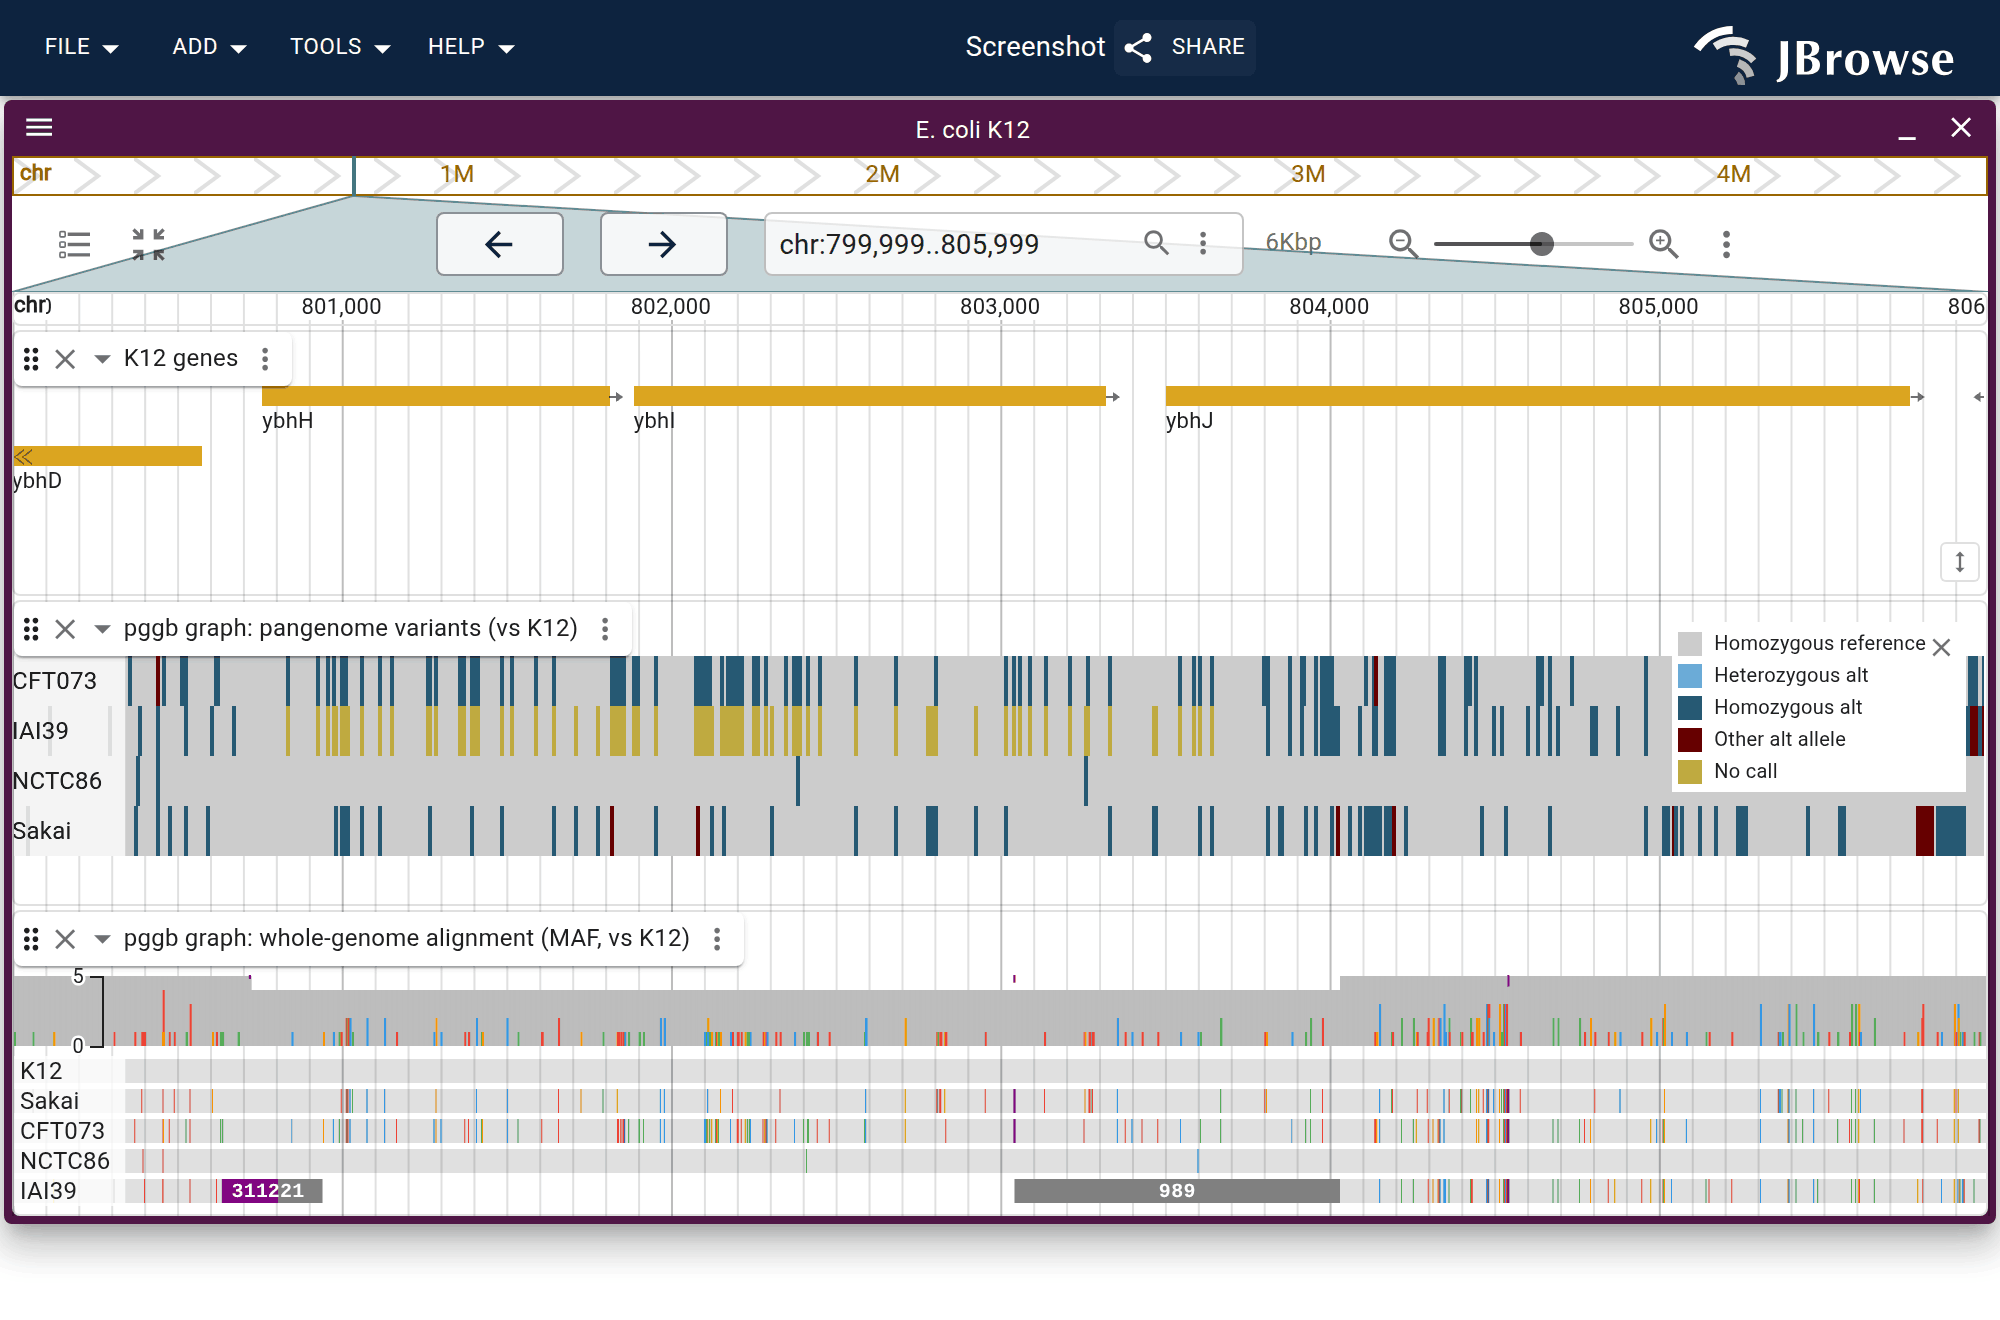
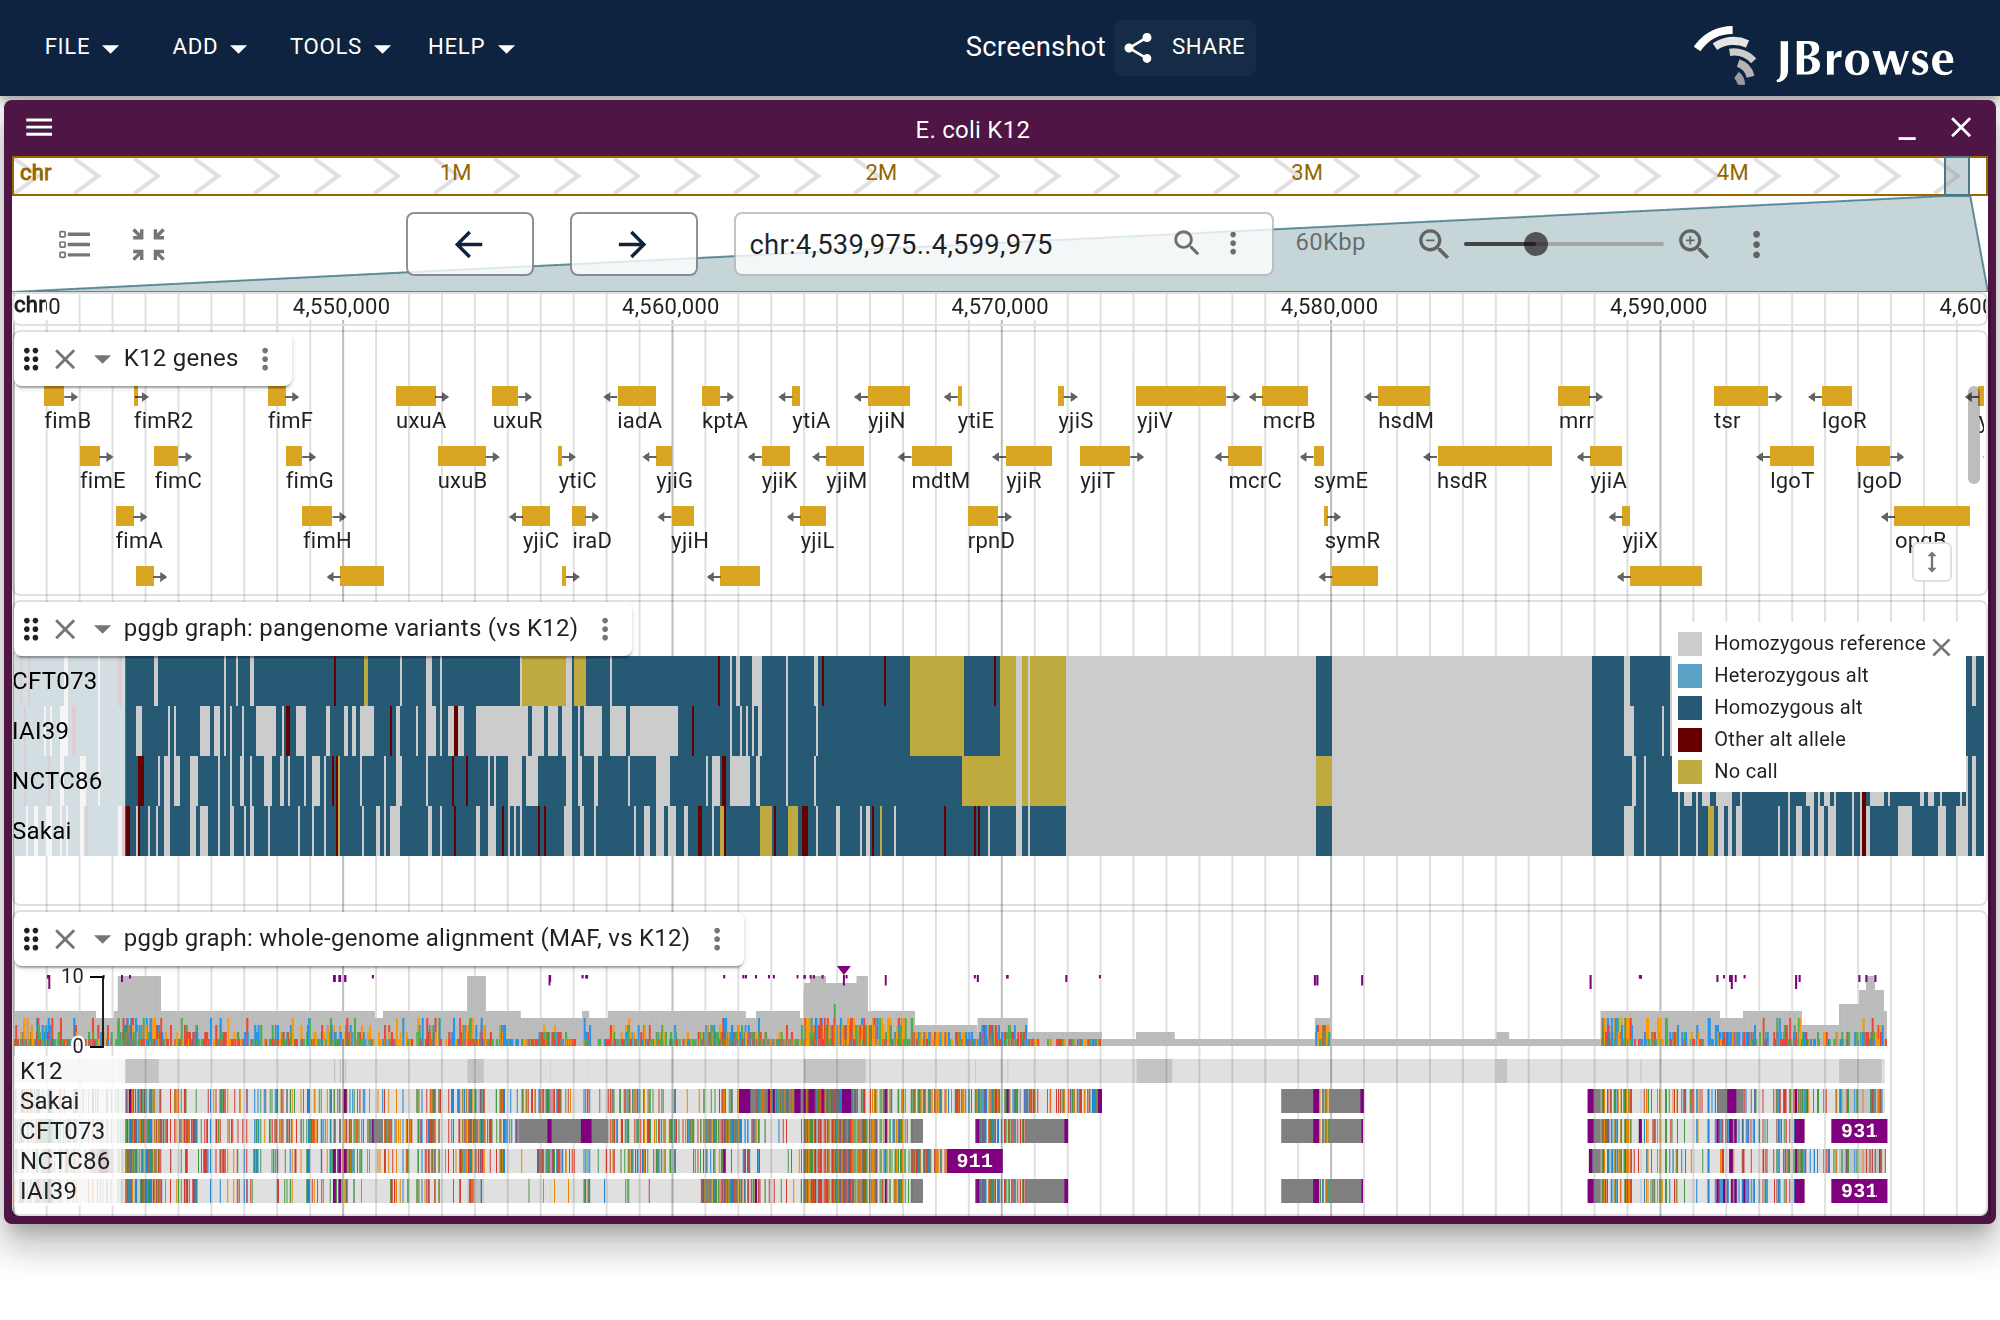
fix(website): zoom the pangenome MAF figure out to where strains drop out
Review: "zoom out more". At 6 kb every row was continuous backbone, so
the figure could only say the strains differ by SNPs, which the variant
figure above it already says. The window is picked from the odgi pav
bigWigs rather than by eye: scoring 60 kb windows on "each strain is
partly present and partly absent" (8-40% of its 500bp bins absent) puts
chr:4,540,000-4,600,000 first, with all four strains between 29% and 40%
absent, over the fim, mcr and hsd loci.

At that width the MAF rows show what only a zoomed-out alignment can:
where each strain stops aligning to K12 at all, against the backbone it
shares.

Claude-Session: https://claude.ai/code/session_018MT2uhC1qztJLJxBwGAKKq

diff --git a/website/scripts/specs/pangenome.ts b/website/scripts/specs/pangenome.ts
@@ -89,11 +89,17 @@ export const pangenomeSpecs: ScreenshotSpec[] = [
 
   // Projection 3: the graph's whole-genome alignment as a MAF, projected onto
   // K12. The coverage band on top, then one row per strain (K12 reference first),
-  // each colored where it differs from K12. This window sits on the shared
-  // backbone where all four strains align continuously (taffy coverage: CFT073
-  // and Sakai align ~1:1 to K12 across it, no large insertions or deletions), so
-  // each strain's mismatch columns read as pure SNP divergence from K12 — not the
-  // accessory-region indels that dominate elsewhere in the pangenome.
+  // each colored where it differs from K12.
+  //
+  // 60 kb rather than the 6 kb this used to show (reviewer: "zoom out more"). At
+  // 6 kb every row was continuous backbone, so the figure could only say "these
+  // strains differ by SNPs" - a fact the variant figure above already carries.
+  // The window is picked from the odgi pav bigWigs rather than by eye: scoring
+  // every 60 kb window on "each strain is partly present and partly absent"
+  // (8-40% of its 500bp bins absent) puts chr:4,540,000-4,600,000 top, with all
+  // four strains between 29% and 40% absent. So the rows now show what only a
+  // zoomed-out MAF can: where each strain stops aligning to K12 at all, against
+  // the backbone it shares.
   {
     mode: 'url',
     name: 'pangenome/maf',
@@ -102,7 +108,7 @@ export const pangenomeSpecs: ScreenshotSpec[] = [
         {
           type: 'LinearGenomeView',
           assembly: 'K12',
-          loc: 'chr:800,000-806,000',
+          loc: 'chr:4,540,000-4,600,000',
           tracks: [
             { trackId: 'K12_genes', type: 'LinearBasicDisplay' },
             {
@@ -122,7 +128,7 @@ export const pangenomeSpecs: ScreenshotSpec[] = [
         },
       ],
     }),
-    readyText: '806,000',
+    readyText: '4,560,000',
     readyTimeout: 90000,
     viewportWidth: 1000,
     // the variant lane plus one MAF row per sample and the coverage band

diff --git a/website/docs/tutorials/pangenome_ecoli.md b/website/docs/tutorials/pangenome_ecoli.md
@@ -412,7 +412,7 @@ taffy index -i ecoli_pggb.taf.gz                        # -> .taf.gz.tai
 }
 ```
 
-<Figure caption="The graph's whole-genome alignment projected onto K12: the coverage band on top, then one row per strain (K12 reference first), each colored where it differs from K12. This shared-backbone window has all five strains aligning continuously, so each strain's mismatch columns read as SNP divergence from K12. NCTC86 is the closest to K12 and its row is nearly bare; IAI39 carries insertions relative to K12 (the boxed runs)." src="/img/pangenome/maf.png" />
+<Figure caption="The graph's whole-genome alignment projected onto K12 across 60 kb spanning the fim, mcr and hsd loci: the coverage band on top, then one row per strain (K12 reference first), each colored where it differs from K12, with the variant calls above. Where a row goes blank the strain has no alignment to K12 at all, so the accessory structure and the SNP divergence read in the same picture." src="/img/pangenome/maf.png" />
 
 The `samples` list fixes the row order and labels. Supply an `nhLocation` Newick
 tree instead to draw the rows as a dendrogram. The
